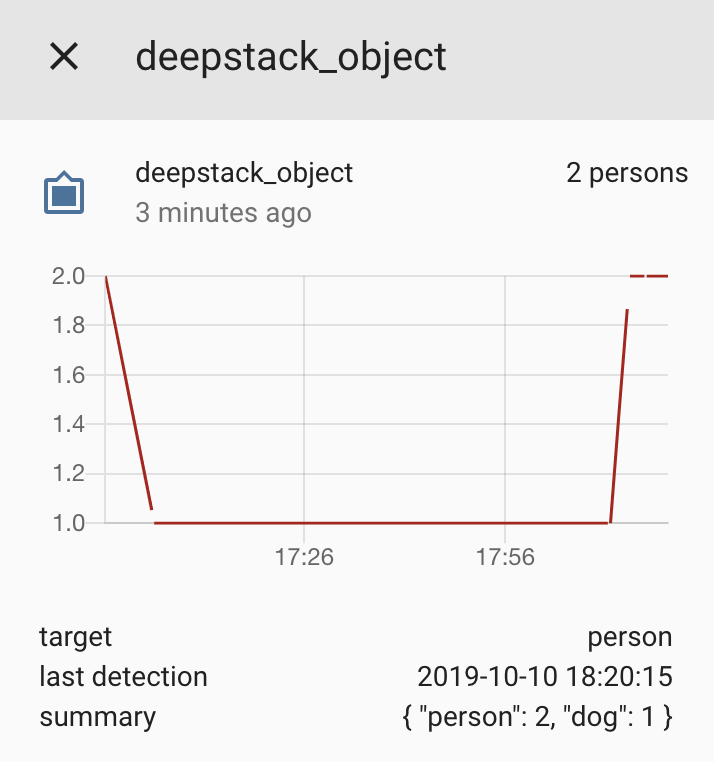
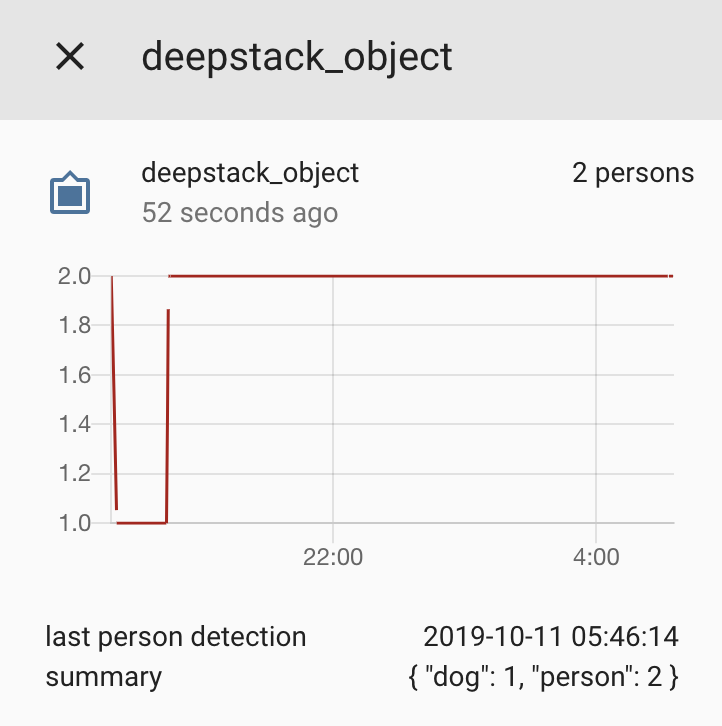
Adds box to event data

diff --git a/custom_components/deepstack_object/image_processing.py b/custom_components/deepstack_object/image_processing.py
@@ -51,6 +51,8 @@ DEFAULT_TARGET = "person"
 DEFAULT_TIMEOUT = 10
 EVENT_OBJECT_DETECTED = "image_processing.object_detected"
 EVENT_FILE_SAVED = "image_processing.file_saved"
+BOX = "box"
+CENTROID = "centroid"
 FILE = "file"
 OBJECT = "object"
 
@@ -84,6 +86,20 @@ def get_box(prediction: dict, img_width: int, img_height: int):
     rounding_decimals = 3
     box = [round(coord, rounding_decimals) for coord in box]
     return box
+
+
+def get_box_centroid(box: Tuple) -> Tuple:
+    """
+    Locate the box centroid in (x,y) coordinates where
+    (0,0) is the top left hand corner of the image and 
+    (1,1) is the bottom right corner of the image.
+    """
+    rounding_decimals = 3
+
+    y_min, x_min, y_max, x_max = box
+    centroid = ((x_max + x_min) / 2, (y_max + y_min) / 2)
+    centroid = [round(coord, rounding_decimals) for coord in centroid]
+    return centroid
 
 
 def draw_box(
@@ -261,12 +277,15 @@ class ObjectClassifyEntity(ImageProcessingEntity):
 
         for prediction in predictions:
             if ds.format_confidence(prediction["confidence"]) > confidence:
+                box = get_box(prediction, self._image_width, self._image_height)
                 self.hass.bus.fire(
                     EVENT_OBJECT_DETECTED,
                     {
                         ATTR_ENTITY_ID: self.entity_id,
                         OBJECT: prediction["label"],
                         ATTR_CONFIDENCE: ds.format_confidence(prediction["confidence"]),
+                        BOX: box,
+                        CENTROID: get_box_centroid(box),
                     },
                 )
 
@@ -303,8 +322,9 @@ class ObjectClassifyEntity(ImageProcessingEntity):
     def device_state_attributes(self):
         """Return device specific state attributes."""
         attr = {}
-        attr["target"] = self._target
         if self._last_detection:
-            attr["last_detection"] = self._last_detection.strftime("%Y-%m-%d %H:%M:%S")
+            attr[
+                "last_{}_detection".format(self._target)
+            ] = self._last_detection.strftime("%Y-%m-%d %H:%M:%S")
         attr["summary"] = self._summary
         return attr

diff --git a/README.md b/README.md
@@ -14,7 +14,7 @@ docker pull deepquestai/deepstack:noavx
 
 **Legacy machine users** If you are using a machine that doesn't support avx or you are having issues with making requests, Deepstack has a specific build for these systems. Use `deepquestai/deepstack:noavx` instead of `deepquestai/deepstack` when you are installing or running Deepstack. I expect many users will be using noavx mode so I will use it in the examples below.
 
-## Activating the API
+## Activating the Deepstack API
 Before you get started, you will need to activate the Deepstack API. First, go to www.deepstack.cc and sign up for an account. Choose the basic plan which will give us unlimited access for one installation. You will then see an activation key in your portal.
 
 On your machine with docker, run Deepstack (noavx mode) without any recognition so you can activate the API on port `5000`:
@@ -27,27 +27,26 @@ Now go to http://YOUR_SERVER_IP_ADDRESS:5000/ on another computer or the same on
 docker run -e VISION-DETECTION=True -e API-KEY="Mysecretkey" -v localstorage:/datastore -p 5000:5000 --name deepstack -d deepquestai/deepstack:noavx
 ```
 
+## Usage of this component
+The `deepstack_object` component adds an `image_processing` entity where the state of the entity is the total number of `target` objects that are above a `confidence` threshold which has a default value of 80%. The time of the last detection of the `target` object is in the `last detection` attribute. The type and number of objects (of any confidence) is listed in the `summary` attributes. Optionally the processed image can be saved to disk. If `save_file_folder` is configured two images are created, one with the filename of format `deepstack_latest_{target}.jpg` which is over-written on each new detection of the `target`, and another with a unique filename including the timestamp. An event `image_processing.object_detected` is fired for each object detected. If you are a power user with advanced needs such as zoning detections or you want to track multiple object types, you will need to use the `image_processing.object_detected` events.
+
 ## Home Assistant setup
 Place the `custom_components` folder in your configuration directory (or add its contents to an existing `custom_components` folder). Then configure object detection. **Important:** It is necessary to configure only a single camera per `deepstack_object` entity. If you want to process multiple cameras, you will therefore need multiple `deepstack_object` `image_processing` entities. **Note** that at we can use `scan_interval` to (optionally) limit computation, [as described here](https://www.home-assistant.io/components/image_processing/#scan_interval-and-optimising-resources).
 
-The `deepstack_object` component adds an `image_processing` entity where the state of the entity is the total number of `target` objects that are above a `confidence` threshold which has a default value of 80%. The time of the last positive detection of the `target` object is in the `last detection` attribute. The class and number of objects all objects detected (of any confidence) is listed in the `summary` attributes. An event `image_processing.object_detected` is fired for each object detected. Optionally the processed image can be saved to disk. If `save_file_folder` is configured two images are created, one with the filename of format `deepstack_latest_{target}.jpg` which is over-written on each new detection of the `target`, and another with a unique filename including the timestamp. You can use a [local_file](https://www.home-assistant.io/integrations/local_file/) camera to display the `deepstack_latest_{target}.jpg` image on the HA front-end.
-
 Add to your Home-Assistant config:
+
 ```yaml
 image_processing:
   - platform: deepstack_object
     ip_address: localhost
     port: 5000
     api_key: Mysecretkey
-    timeout: 5
-    scan_interval: 20
     save_file_folder: /config/www/deepstack_person_images
-    target: person
-    confidence: 50
     source:
       - entity_id: camera.local_file
         name: person_detector
 ```
+
 Configuration variables:
 - **ip_address**: the ip address of your deepstack instance.
 - **port**: the port of your deepstack instance.
@@ -66,31 +65,6 @@ Configuration variables:
 <p align="center">
 <img src="https://github.com/robmarkcole/HASS-Deepstack-object/blob/master/docs/object_detail.png" width="350">
 </p>
-
-#### Event `image_processing.object_detected`
-An event `image_processing.object_detected` is fired for each object detected above the configured `confidence` threshold. This is the recommended way to check the confidence of detections, and to keep track of objects that are not configured as the `target` (configure logger level to `debug` to observe events in the Home Assistant logs). An example use case for event is to get an alert when some rarely appearing object is detected, or to increment a [counter](https://www.home-assistant.io/components/counter/). The `image_processing.object_detected` event payload includes:
-
-- `entity_id` : the entity id responsible for the event
-- `object` : the object detected
-- `confidence` : the confidence in detection in the range 0 - 1 where 1 is 100% confidence.
-
-An example automation using the `image_processing.object_detected` event is given below:
-
-```yaml
-- action:
-  - data_template:
-      title: "New object detection"
-      message: "{{ trigger.event.data.object }} with confidence {{ trigger.event.data.confidence }}"
-    service: notify.pushbullet
-  alias: Object detection automation
-  condition: []
-  id: '1120092824622'
-  trigger:
-  - platform: event
-    event_type: image_processing.object_detected
-    event_data:
-      object: person
-```
 
 #### Event `image_processing.file_saved`
 If `save_file_folder` is configured, an new image will be saved with bounding boxes of detected `target` objects, and the filename will include the time of the image capture. On saving this image a `image_processing.file_saved` event is fired, with a payload that includes:
@@ -113,6 +87,39 @@ An example automation using the `image_processing.file_saved` event is given bel
   - platform: event
     event_type: image_processing.file_saved
 ```
+
+#### Event `image_processing.object_detected`
+An event `image_processing.object_detected` is fired for each object detected above the configured `confidence` threshold. This is the recommended way to check the confidence of detections, and to keep track of objects that are not configured as the `target` (configure logger level to `debug` to observe events in the Home Assistant logs). An example use case for event is to get an alert when some rarely appearing object is detected, or to increment a [counter](https://www.home-assistant.io/components/counter/). The `image_processing.object_detected` event payload includes:
+
+- `entity_id` : the entity id responsible for the event
+- `object` : the object detected
+- `confidence` : the confidence in detection in the range 0 - 1 where 1 is 100% confidence.
+- `box` : the bounding box of the object
+- `centroid` : the centre point of the object
+
+An example automation using the `image_processing.object_detected` event is given below:
+
+```yaml
+- action:
+  - data_template:
+      title: "New object detection"
+      message: "{{ trigger.event.data.object }} with confidence {{ trigger.event.data.confidence }}"
+    service: notify.pushbullet
+  alias: Object detection automation
+  condition: []
+  id: '1120092824622'
+  trigger:
+  - platform: event
+    event_type: image_processing.object_detected
+    event_data:
+      object: person
+```
+
+The `box` coordinates and the box center (`centroid`) can be used to determine whether an object falls within a defined region-of-interest (ROI). This can be useful to include/exclude objects by their location in the image.
+
+* The `box` is defined by the tuple `(y_min, x_min, y_max, x_max)` (equivalent to image top, left, bottom, right) where the coordinates are floats in the range `[0.0, 1.0]` and relative to the width and height of the image.
+* The centroid is in `(x,y)` coordinates where `(0,0)` is the top left hand corner of the image and `(1,1)` is the bottom right corner of the image.
+
 
 ## Displaying the `deepstack_latest_{target}.jpg` file
 It easy to display the `deepstack_latest_{target}.jpg` image with a [local_file](https://www.home-assistant.io/components/local_file/) camera. An example configuration is:
